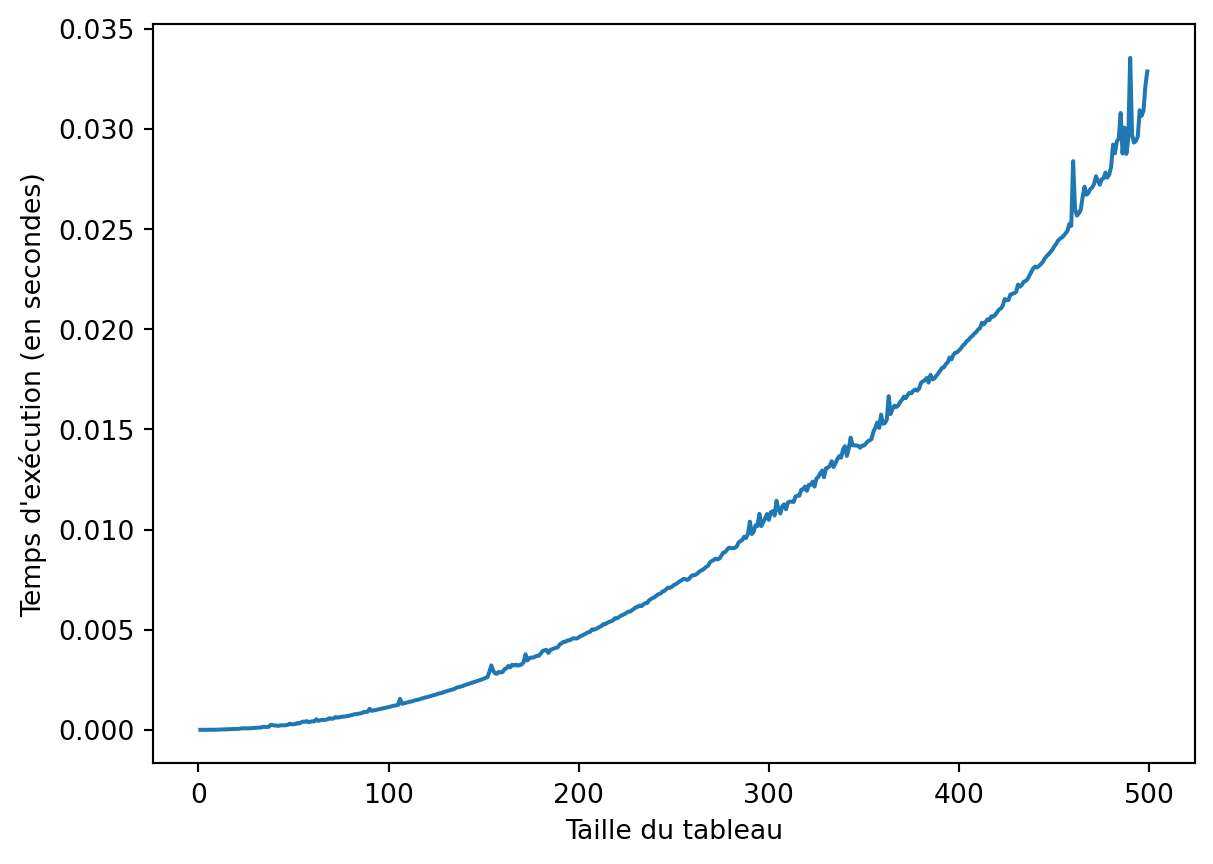
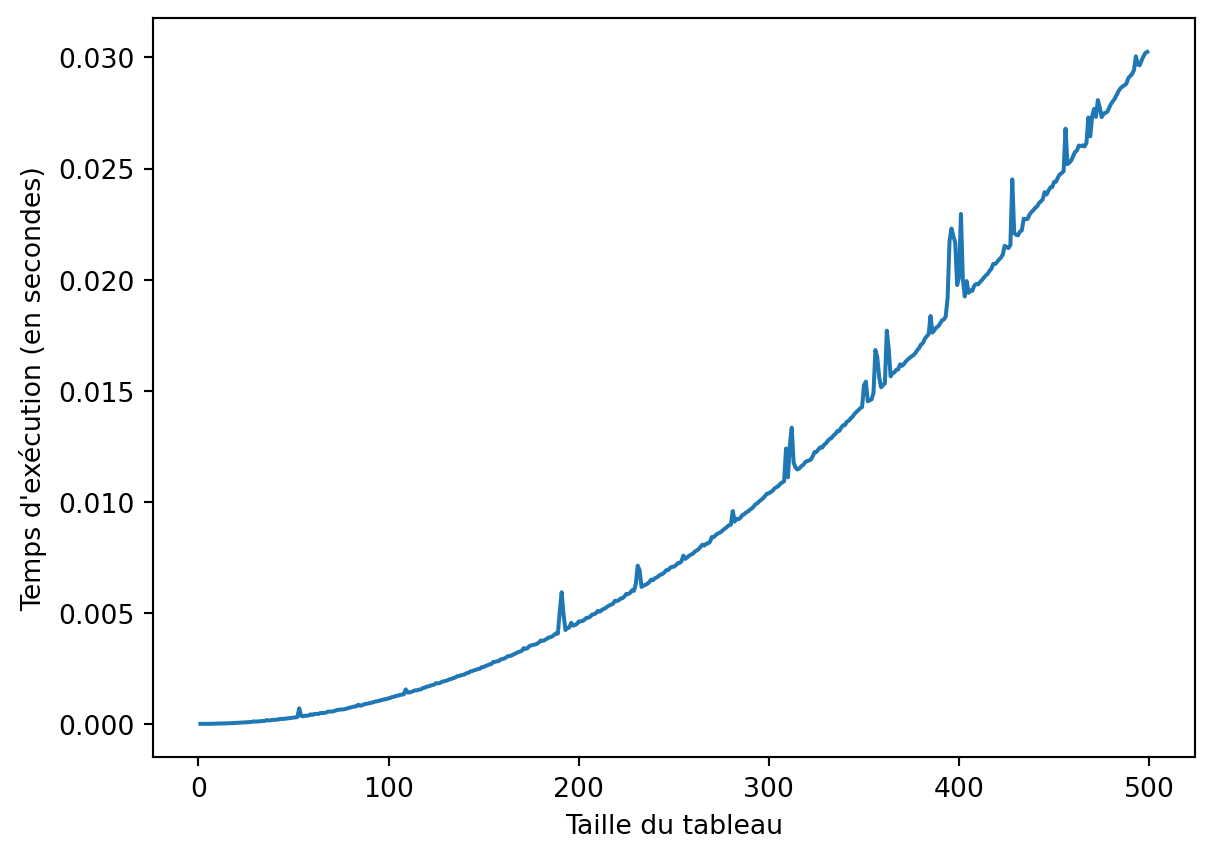
modif visualisation tris

diff --git a/_site/16_tris/tris_cours.html b/_site/16_tris/tris_cours.html
@@ -1044,7 +1044,7 @@ window.Quarto = {
 </ul>
 </div>
 </div>
-<iframe src="./tri_insertion/index.html" width="100%" height="600px" frameborder="0">
+<iframe src="./tri_insertion/index.html" width="100%" height="650px" frameborder="0">
 </iframe>
 <p><strong>Exemple</strong> : Soit à trier le tableau <span class="math inline">\([5,2,7,3]\)</span>.</p>
 <ul>
@@ -1055,7 +1055,7 @@ window.Quarto = {
 </section>
 <section id="programmation" class="level3">
 <h3 class="anchored" data-anchor-id="programmation">Programmation</h3>
-<div id="196e72f7" class="cell" data-execution_count="1">
+<div id="7b92a895" class="cell" data-execution_count="1">
 <div class="code-copy-outer-scaffold"><div class="sourceCode cell-code" id="annotated-cell-1"><pre class="sourceCode python code-annotation-code code-with-copy code-annotated"><code class="sourceCode python"><span id="annotated-cell-1-1"><a href="#annotated-cell-1-1" aria-hidden="true" tabindex="-1"></a><span class="kw">def</span> tri_insertion(tableau: <span class="bu">list</span>) <span class="op">-&gt;</span> <span class="bu">list</span>:</span>
 <span id="annotated-cell-1-2"><a href="#annotated-cell-1-2" aria-hidden="true" tabindex="-1"></a>    <span class="co">"""Trie en place par insertion le tableau passé en paramètre."""</span></span>
 <a class="code-annotation-anchor" data-target-cell="annotated-cell-1" data-target-annotation="1" onclick="event.preventDefault();">1</a><span id="annotated-cell-1-3" class="code-annotation-target"><a href="#annotated-cell-1-3" aria-hidden="true" tabindex="-1"></a>    <span class="cf">for</span> i <span class="kw">in</span> <span class="bu">range</span>(<span class="dv">1</span>, <span class="bu">len</span>(tableau)):</span>
@@ -1090,7 +1090,7 @@ window.Quarto = {
 </div>
 </div>
 <p>Test de l’algorithme :</p>
-<div id="3626f7fa" class="cell" data-execution_count="2">
+<div id="e99c0d8e" class="cell" data-execution_count="2">
 <div class="code-copy-outer-scaffold"><div class="sourceCode cell-code" id="cb1"><pre class="sourceCode python code-with-copy"><code class="sourceCode python"><span id="cb1-1"><a href="#cb1-1" aria-hidden="true" tabindex="-1"></a>tri_insertion([<span class="dv">5</span>, <span class="dv">2</span>, <span class="dv">4</span>, <span class="dv">6</span>, <span class="dv">1</span>, <span class="dv">3</span>])</span></code></pre></div><button title="Copier vers le presse-papier" class="code-copy-button"><i class="bi"></i></button></div>
 <div class="cell-output cell-output-display" data-execution_count="2">
 <pre><code>[1, 2, 3, 4, 5, 6]</code></pre>
@@ -1145,7 +1145,7 @@ window.Quarto = {
 </ul>
 </div>
 </div>
-<iframe src="./tri_selection/index.html" width="100%" height="400px" frameborder="0">
+<iframe src="./tri_selection/index.html" width="100%" height="650px" frameborder="0">
 </iframe>
 <p><strong>Exemple</strong> : Soit à trier le tableau <span class="math inline">\([5,2,3,7]\)</span>.</p>
 <ul>
@@ -1157,7 +1157,7 @@ window.Quarto = {
 </section>
 <section id="programmation-1" class="level3">
 <h3 class="anchored" data-anchor-id="programmation-1">Programmation</h3>
-<div id="8b6dc59d" class="cell" data-execution_count="3">
+<div id="0c62a70e" class="cell" data-execution_count="3">
 <div class="code-copy-outer-scaffold"><div class="sourceCode cell-code" id="annotated-cell-3"><pre class="sourceCode python code-annotation-code code-with-copy code-annotated"><code class="sourceCode python"><span id="annotated-cell-3-1"><a href="#annotated-cell-3-1" aria-hidden="true" tabindex="-1"></a><span class="kw">def</span> tri_selection(tableau: <span class="bu">list</span>) <span class="op">-&gt;</span> <span class="bu">list</span>:</span>
 <span id="annotated-cell-3-2"><a href="#annotated-cell-3-2" aria-hidden="true" tabindex="-1"></a>    <span class="co">"""Trie en place par sélection le tableau passé en paramètre."""</span></span>
 <a class="code-annotation-anchor" data-target-cell="annotated-cell-3" data-target-annotation="1" onclick="event.preventDefault();">1</a><span id="annotated-cell-3-3" class="code-annotation-target"><a href="#annotated-cell-3-3" aria-hidden="true" tabindex="-1"></a>    <span class="cf">for</span> i <span class="kw">in</span> <span class="bu">range</span>(<span class="bu">len</span>(tableau)):</span>
@@ -1193,7 +1193,7 @@ window.Quarto = {
 </div>
 </div>
 <p>Test de l’algorithme :</p>
-<div id="217ddfc8" class="cell" data-execution_count="4">
+<div id="6c0a9f81" class="cell" data-execution_count="4">
 <div class="code-copy-outer-scaffold"><div class="sourceCode cell-code" id="cb3"><pre class="sourceCode python code-with-copy"><code class="sourceCode python"><span id="cb3-1"><a href="#cb3-1" aria-hidden="true" tabindex="-1"></a>tri_selection([<span class="dv">5</span>, <span class="dv">2</span>, <span class="dv">4</span>, <span class="dv">6</span>, <span class="dv">1</span>, <span class="dv">3</span>])</span></code></pre></div><button title="Copier vers le presse-papier" class="code-copy-button"><i class="bi"></i></button></div>
 <div class="cell-output cell-output-display" data-execution_count="4">
 <pre><code>[1, 2, 3, 4, 5, 6]</code></pre>
@@ -1228,7 +1228,7 @@ window.Quarto = {
 <h2 class="anchored" data-anchor-id="observation-expérimentale-de-la-complexité">3. Observation expérimentale de la complexité</h2>
 <section id="tri-par-insertion-1" class="level3">
 <h3 class="anchored" data-anchor-id="tri-par-insertion-1">Tri par insertion</h3>
-<div id="48713e6a" class="cell" data-execution_count="5">
+<div id="8b61201d" class="cell" data-execution_count="5">
 <div class="code-copy-outer-scaffold"><div class="sourceCode cell-code" id="cb5"><pre class="sourceCode python code-with-copy"><code class="sourceCode python"><span id="cb5-1"><a href="#cb5-1" aria-hidden="true" tabindex="-1"></a><span class="im">import</span> timeit</span>
 <span id="cb5-2"><a href="#cb5-2" aria-hidden="true" tabindex="-1"></a><span class="im">import</span> matplotlib.pyplot <span class="im">as</span> plt</span>
 <span id="cb5-3"><a href="#cb5-3" aria-hidden="true" tabindex="-1"></a></span>
@@ -1248,7 +1248,7 @@ window.Quarto = {
 <div class="cell-output cell-output-display">
 <div>
 <figure class="figure">
-<p><a href="tris_cours_files/figure-html/cell-6-output-1.png" class="lightbox" data-gallery="quarto-lightbox-gallery-1"><img src="tris_cours_files/figure-html/cell-6-output-1.png" width="607" height="432" class="figure-img"></a></p>
+<p><a href="tris_cours_files/figure-html/cell-6-output-1.png" class="lightbox" data-gallery="quarto-lightbox-gallery-1"><img src="tris_cours_files/figure-html/cell-6-output-1.png" width="607" height="429" class="figure-img"></a></p>
 </figure>
 </div>
 </div>
@@ -1256,7 +1256,7 @@ window.Quarto = {
 </section>
 <section id="tri-par-sélection-1" class="level3">
 <h3 class="anchored" data-anchor-id="tri-par-sélection-1">Tri par sélection</h3>
-<div id="3a4ce908" class="cell" data-execution_count="6">
+<div id="8a2520b0" class="cell" data-execution_count="6">
 <div class="code-copy-outer-scaffold"><div class="sourceCode cell-code" id="cb6"><pre class="sourceCode python code-with-copy"><code class="sourceCode python"><span id="cb6-1"><a href="#cb6-1" aria-hidden="true" tabindex="-1"></a><span class="im">import</span> timeit</span>
 <span id="cb6-2"><a href="#cb6-2" aria-hidden="true" tabindex="-1"></a><span class="im">import</span> matplotlib.pyplot <span class="im">as</span> plt</span>
 <span id="cb6-3"><a href="#cb6-3" aria-hidden="true" tabindex="-1"></a></span>
